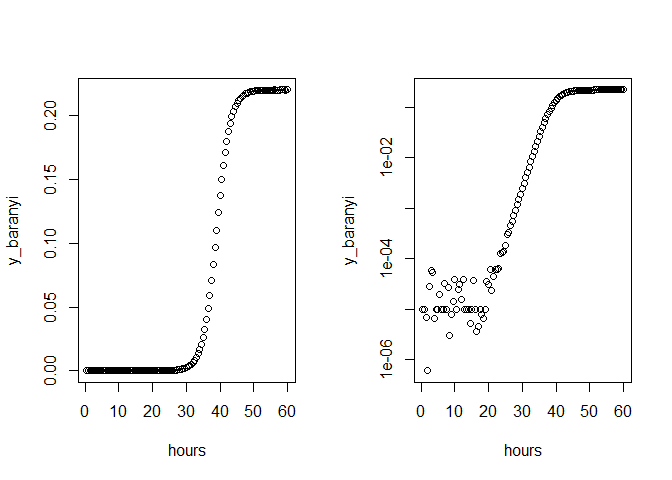
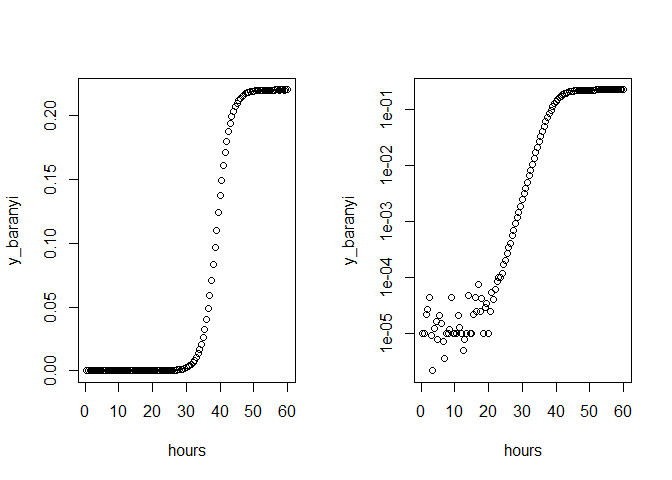
made sourcing visible

diff --git a/tecan_analysis/different_growth_models.md b/tecan_analysis/different_growth_models.md
@@ -3,6 +3,34 @@ different growth models
 Chacon
 2022-11-07
 
+``` r
+knitr::opts_chunk$set(echo = TRUE)
+library(tidyverse)
+```
+
+    ## Warning in as.POSIXlt.POSIXct(Sys.time()): unable to identify current timezone 'E':
+    ## please set environment variable 'TZ'
+
+    ## ── Attaching packages ─────────────────────────────────────── tidyverse 1.3.2 ──
+    ## ✔ ggplot2 3.3.6      ✔ purrr   0.3.5 
+    ## ✔ tibble  3.1.8      ✔ dplyr   1.0.10
+    ## ✔ tidyr   1.2.1      ✔ stringr 1.4.1 
+    ## ✔ readr   2.1.3      ✔ forcats 0.5.2 
+    ## ── Conflicts ────────────────────────────────────────── tidyverse_conflicts() ──
+    ## ✖ dplyr::filter() masks stats::filter()
+    ## ✖ dplyr::lag()    masks stats::lag()
+
+``` r
+source("./growthcurve_functions.r")
+```
+
+    ## 
+    ## Attaching package: 'zoo'
+    ## 
+    ## The following objects are masked from 'package:base':
+    ## 
+    ##     as.Date, as.Date.numeric
+
 This document shows the 3 different growth models which can be fit to
 experimental data, e.g. from the TECAN.
 
@@ -57,7 +85,7 @@ print(parms)
 ```
 
     ##            r           y0          lag          end 
-    ## 5.141354e-01 1.295398e-05 2.090111e+01 3.984785e+01
+    ## 5.128061e-01 1.257831e-05 2.082009e+01 3.987335e+01
 
 ## Logistic growth.
 
@@ -88,7 +116,7 @@ print(parms)
 ```
 
     ##            r          lag            K           y0 
-    ## 4.999931e-01 3.800023e+01 2.199997e-01 1.204442e-05
+    ## 5.000565e-01 3.800034e+01 2.200032e-01 1.638455e-05
 
 ## Baranyi model
 
@@ -116,7 +144,7 @@ print(parms)
 ```
 
     ##            r          lag         ymax           y0 
-    ## 4.999149e-01 1.092769e+01 2.199983e-01 1.770645e-07
+    ## 5.000536e-01 1.966913e+01 2.199945e-01 1.395697e-05
 
 ## The log-linear model is quite different from the logistic and Baranyi models
 

diff --git a/tecan_analysis/tecan_analysis.md b/tecan_analysis/tecan_analysis.md
@@ -3,6 +3,35 @@ Tecan exploration and growth curve fitting
 Chacon
 2022-11-07
 
+``` r
+knitr::opts_chunk$set(echo = TRUE)
+library(tidyverse)
+```
+
+    ## Warning in as.POSIXlt.POSIXct(Sys.time()): unable to identify current timezone 'E':
+    ## please set environment variable 'TZ'
+
+    ## ── Attaching packages ─────────────────────────────────────── tidyverse 1.3.2 ──
+    ## ✔ ggplot2 3.3.6      ✔ purrr   0.3.5 
+    ## ✔ tibble  3.1.8      ✔ dplyr   1.0.10
+    ## ✔ tidyr   1.2.1      ✔ stringr 1.4.1 
+    ## ✔ readr   2.1.3      ✔ forcats 0.5.2 
+    ## ── Conflicts ────────────────────────────────────────── tidyverse_conflicts() ──
+    ## ✖ dplyr::filter() masks stats::filter()
+    ## ✖ dplyr::lag()    masks stats::lag()
+
+``` r
+rm(list = ls())
+source("./tecan_funcs.r")
+```
+
+    ## 
+    ## Attaching package: 'zoo'
+    ## 
+    ## The following objects are masked from 'package:base':
+    ## 
+    ##     as.Date, as.Date.numeric
+
 ## Tecan data
 
 This shows how to use some helper functions to read in TECAN data and
@@ -176,10 +205,6 @@ logistic_gr = fit_all_logistic(OD, measure = "OD", tries = 50)
 ``` r
 baranyi_gr = fit_all_baranyi(OD, measure = "OD", tries = 50)
 ```
-
-    ## Warning in log(1 + (exp(r * At) - 1)/exp(logymax - logy0)): NaNs produced
-
-    ## Warning in log(1 + (exp(r * At) - 1)/exp(logymax - logy0)): NaNs produced
 
     ## `summarise()` has grouped output by 'well'. You can override using the
     ## `.groups` argument.
